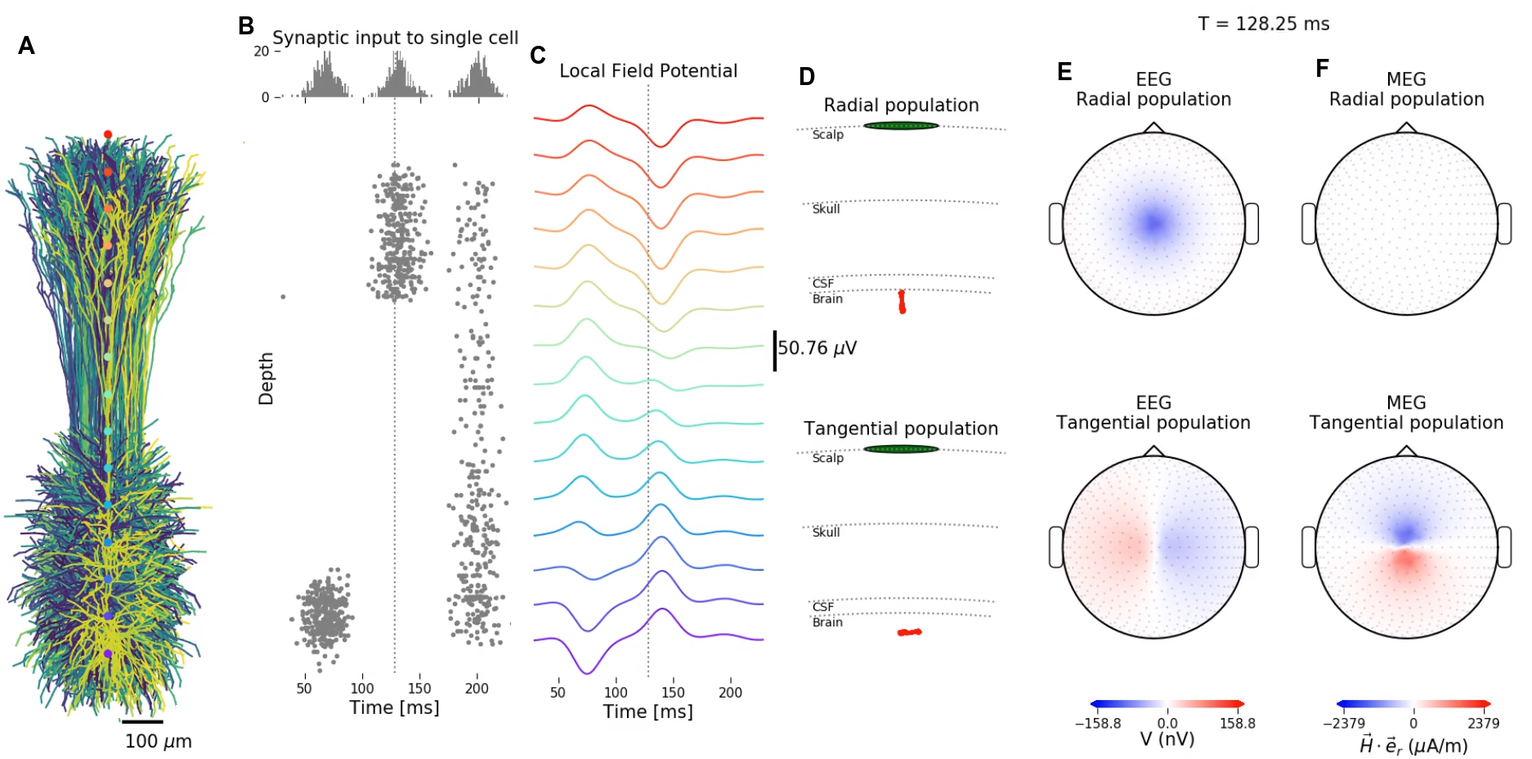
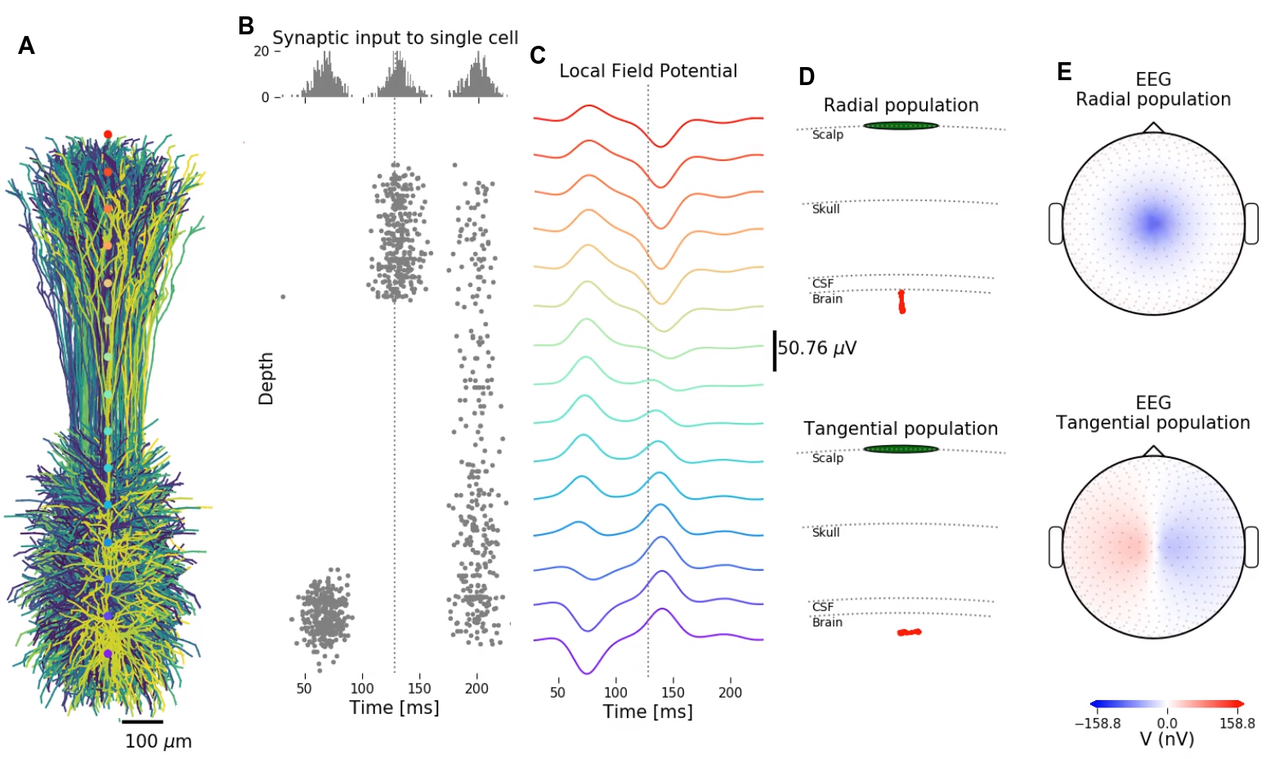
Added fig and writing

diff --git a/ECS_bookchapter.tex b/ECS_bookchapter.tex
@@ -174,7 +174,7 @@
 %% \address[label2]{<address>}
 
 \author{Geir Halnes\fnref{label1,label2}}
-\author{Torbj\o{}rn V. Ness \fnref{label1,label2}}
+\author{Torbj\o{}rn V. Ness \fnref{label1}}
 \author{Solveig N\ae{}ss\fnref{label2}}
 \author{Klas Pettersen \fnref{label3}}
 \author{Gaute T. Einevoll\corref{cor1}\fnref{label1,label2,label4}}
@@ -231,7 +231,7 @@ The link between membrane currents and the extracellular potential is of course 
 
 We start this book chapter by giving an overview of the theory used for forward modellng of extracellular potentials, and introduce the mathematical frameworks and software tools that can be used for such modelling. We start the theory-part at the rather fundamental level of electrodiffusive ion concentration dynamics, and derive an electrodiffusive framework for predicting the dynamics of the extracellular ion concentrations and potential. We next show how this theory can be reduced to the simpler, and more common VC-theory if we assume that the diffusive component is negligible. 
 
-\begin{figure}[h!]
+\begin{figure}[!ht]
 \begin{center}
 \includegraphics[width=0.8\textwidth]{cortex_multipop_arial_font}
 \end{center}
@@ -268,7 +268,7 @@ In order the solve a set (i.e., one for each ion species present) of equations l
 where $\epsilon$ is the permittivity of the system, and $\rho$ is the charge density associated with the ionic concentrations, as given by:
 \begin{equation}
 \rho = F \sum_k z_k c_k.
-\label{eq:poisson}
+\label{eq:F}
 \end{equation}
 An alternative, more computationally efficient approach is to replace the Poisson equation with the simplifying approximation that the bulk solution is electroneutral \citep{Mori2008, Mori2009, Mori2009a, Mori2011, Halnes2015, Halnes2013, Halnes2015arxiv, Pods2017, Niederer2013, OConnell2016, Solbra2018}, which is a good approximation on spatiotemporal scales larger than micrometers and microseconds \citep{Grodzinsky2011, Pods2017, Solbra2018}. 
 
@@ -320,76 +320,92 @@ where $r$ is the distance from the source. With several point-current sources, $
 \label{eq:VCtheory}
 \end{equation}
 
-Eq. \ref{eq:VCtheory} is often referred to as the point-source approximation \citep{Holt1999, Pettersen2008a}, since the membrane currents from a neuronal segment are assumed to enter the extracellular medium in a single point. An alternative scheme is the line-source approximation, where transmembrane currents from each segment is assumed to be evenly
-distributed along the segment axis \citep{Holt1999, Pettersen2008a}.
+Eq.~\ref{eq:VCtheory} is often referred to as the point-source approximation \citep{Holt1999, Pettersen2008a}, since the membrane current from a neuronal segment is assumed to enter the extracellular medium in a single point. An often used further development is obtained by integrating eq.~\ref{eq:VCtheory} along the segment axis, corresponding to the transmembrane current being evenly distributed along the segment axis, giving the line-source approximation \citep{Holt1999, Linden2014}.
 
-The formula in eq. \ref{eq:VCtheory} (or the line-source version of it) represents the VC theory in its simplest form, and was based on a set of assumptions, some of which may be relaxed for problems where it is relevant: 
+The formula in eq. \ref{eq:VCtheory} (or the line-source version of it) represents volume conductor theory in its simplest form, and was based on a set of assumptions, some of which may be relaxed for problems where it is relevant: 
 
 \begin{enumerate}
 
 \item {\bf Quasi-static approximation of Maxwell's equations:} Terms with time derivative of the electrical and magnetic fields are neglected. This approximation appears to be well-justified for the relatively low frequencies relevant for brain signals, below about 10 kHz \citep{Nunez2006}.
 
-\item {\bf Linear extracellular medium:} Linear relationship ($\bf{I} = \sigma {\bf E}$) between the current density ${\bf I}$ and the electrical field, ${\bf E}$. This is essentially Ohm's law for volume conductors, and the relation is constitutive, meaning that it is observed in nature rather than derived from any physical principle \citep{Nunez2006, Pettersen2012}.
+\item {\bf Linear extracellular medium:} Linear relationship ($\bf{I} = \sigma {\bf E}$) between the current density ${\bf I}$\tvnnote{I would have preferred J to mean current density and I total currents. Will this make things messy other places?} and the electrical field, ${\bf E}$. This is essentially Ohm's law for volume conductors, and the relation is constitutive, meaning that it is observed in nature rather than derived from any physical principle \citep{Nunez2006, Pettersen2012}.
 
 \item {\bf Frequency independent conductivity:} Capacitive effects in neural tissue are assumed to be negligible compared to resistive effects in volume conduction. This approximation seems to be justified for the relevant frequencies in extracellular recordings \cite{Logothetis2007, Miceli2017, Ranta2017}, but it is possible to expand the formalism to include a frequency dependent conductivity \citep{Tracey2011, Miceli2017}.
 
-\item {\bf Isotropic conductivity:} $\sigma$ was assumed to be the same in all spatial directions. This is only sometimes an acceptable approximation, and it is possible to expand the formalism to account for an anisotropic $\sigma$ \citep{Ness2015}. \ghnote{Referere til et senere kapittel der vi bruker dette.}
+\item {\bf Isotropic conductivity:} The electrical conductivity, $\sigma$, was assumed to be the same in all spatial directions. This is mostly an acceptable approximation, but it is also possible to expand the formalism to account for an anisotropic conductivities \citep{Ness2015}. \ghnote{Referere til et senere kapittel der vi bruker dette.}
 
-\item {\bf Homogeneous  conductivity:} Extracellular medium was assumed to have the same $\sigma$ everywhere. Although neural tissue is highly non-homogeneous on the micrometer scale \citep{Nicholson1998}, microscale inhomogeneities may average out on a larger spatial scale, and a homogeneous  $\sigma$ seems to be a reasonable approximation in the cortex \cite{Logothesis2007}. However, in several situations is will not be applicable. In general, eq.~\ref{eq:CSDstandard} can always be solved for arbitrarily complex geometries using numerical methods, like the Finite Element Method (FEM) \citep{Logg2012}. For some example neuroscience applications, see \cite{Moffitt2005, Frey2009, Joucla2012, Haufe2015, Ness2015, Buccino2019b, Obien2019}. For some simple non-homogeneous cases analytical solutions can still be obtained, for example through the Method of Images for {\it in vitro} brain slices \citep{Ness2015}, and the four-sphere head model for EEG signals (Sec.~\ref{sec:EEG}) \citep{Naess2017}. \ghnote{Antar at vi her refererer til EEG-kapittelet og evt. flytter noe av dette materialet dit?}
+\item {\bf Homogeneous  conductivity:} The extracellular medium was assumed to have the same conductivity everywhere. Although neural tissue is highly non-homogeneous on the micrometer scale \citep{Nicholson1998}, microscale inhomogeneities may average out on a larger spatial scale, and a homogeneous conductivity seems to be a reasonable approximation within cortex \citep{Logothetis2007}. However, in many situations is will not be applicable, and in general, eq.~\ref{eq:CSDstandard} can always be solved for arbitrarily complex geometries using numerical methods, like the Finite Element Method (FEM) \citep{Logg2012}. For some example neuroscience applications, see \cite{Moffitt2005, Frey2009, Joucla2012, Haufe2015, Ness2015, Buccino2019b, Obien2019}. For some simple non-homogeneous cases analytical solutions can still be obtained, for example through the Method of Images for {\it in vitro} brain slices \citep{Ness2015}, and the four-sphere head model for EEG signals (Sec.~\ref{sec:EEG}) \citep{Naess2017}. \ghnote{Antar at vi her refererer til EEG-kapittelet og evt. flytter noe av dette materialet dit?}
 
 \item {\bf No diffusion:} To account for diffusion, one would need to compute the electrodynamics of the system using one of the electrodiffusive frameworks presented in Section \ref{sec:eldiff}.
 
 \end{enumerate}
 
-Volume conductor theory is the fundament for forward modeling of extracellular potentials both at the level of LFP (and MUA), ECoG or EEG. The theory is incorporated in the customized software LFPy \cite{Linden2014}, which in principle can be used to compute extracellular potentials on arbitrarily large spatial scales, surrounding arbitrarily large neuronal populations. In the following sections we shall review previous modeling works, and insights from simulating electrical potentials at these different scales.
+Volume conductor theory is the fundament for forward modeling of extracellular potentials at different spatial scales, from extracellular spikes, LFPs and MUAs, to ECoGs and EEGs. In the following sections we shall review previous modeling works, and insights from simulating electrical potentials at these different scales.
+We use the software LFPy \citep{Linden2014, Hagen2018, Hagen2019}, which has volume conductor theory incorporated and can in principle be used to compute extracellular potentials on arbitrarily large spatial scales, surrounding arbitrarily large neuronal populations. 
 
 
 \section{Single-cell contributions to extracellular potentials}
-\tvnnote{Make figure with single synaptic input to Hay model. First subthreshold, then suprathreshold, to illustrate that the same modelling scheme works for both LFP and spikes.}
+%\ghnote{Suggest that we start these sections by explaining what $\phi$ tells us at this level. Also, we should refer to the VC-theory and explain which of the assumptions (1-6) that were relaxed in the specific case.}
 
-\ghnote{Maybe not use current-conservation as a main topic, but rather talk about how extracellular potentials reflect morpholohy. Say something like: The extracellular potential arising from the activity of a single neuron is a reflection of not only its dynamical activity, but also its  morphology, and neurons with a large spatial extension generally give rise to larger extracellular potentials as there will be larger distances between current.}
+%\ghnote{Maybe not use current-conservation as a main topic, but rather talk about how extracellular potentials reflect morphology. Say something like: The extracellular potential arising from the activity of a single neuron is a reflection of not only its dynamical activity, but also its  morphology, and neurons with a large spatial extension generally give rise to larger extracellular potentials as there will be larger distances between current.}
 
-\ghnote{Moved current-conservation figure here. I think that we could call it something else. Perhaps the Hay-neuron-example can be integrated with this figure? And perhaps we should name it single-cell contribution to extracellular potential}.
+%\ghnote{Moved current-conservation figure here. I think that we could call it something else. Perhaps the Hay-neuron-example can be integrated with this figure? And perhaps we should name it single-cell contribution to extracellular potential}.
 
-\begin{figure}[h!]
+The extracellular potentials caused by the transmembrane currents of a single neuron is a reflection of both cellular dynamics and morphology (the spatial structure of the cell). 
+Current conservation requires that the transmembrane currents across the entire cellular membrane at any given time sum to zero \citep{Koch1999, Nunez2006}, implying that point neurons, that is, neurons with no spatial structure, will have no net transmembrane currents, and hence cause no extracellular potentials (Fig.~\ref{fig:EP_morph}A). The simplest neuron models that are capable of producing extracellular potentials are therfore two-compartment models, which will have two equal but opposite currents, and cause perfectly dipolar extracellular potentials (Fig.~\ref{fig:EP_morph}B).
+
+Multi-compartment neuron models mimicing the complex spatial structure of real neurons will typically give rise to complicated patterns of current sinks and sources (negative and positive currents respectively), leading to complex, but mostly dipolar-like extracellular potentials (Fig.~\ref{fig:EP_morph}C) \citep{Einevoll2007}.
+Note that this framework for calculating extracellular potentials is valid both for subthreshold and suprathreshold neural activity, that is, when a cell receives synaptic input that does not trigger, or does trigger an action potential, respectively (Fig.~\ref{fig:EP_morph}D versus E).  
+
+\begin{figure}[!ht]
 \begin{center}
-\includegraphics[width=0.6\textwidth]{dipoles}
+\includegraphics[width=1\textwidth]{single_cell_EP}
 \end{center}
-\caption{\textbf{Effect of current conservation on extracellular potentials.} 
-Illustration of synaptic input to three different types of cell models (top row), with the resulting extracellular potentials (bottom row). 
-A: Point neurons have no net currents, and therefore cause no extracellular potentials. B: Two-compartment neuron models have two opposite currents
-of identical magnitude, and cause dipolar extracellular potentials. C: Multi-compartment neuron models \citep{Hay2011} give rise to extracellular potentials with complex (but mostly dipolar-like) shapes.}
-\label{fig:current_conservation}
+\caption{\textbf{Single-cell contributions to the extracellular potential.} 
+A: Point neurons have no net currents (top), and therefore cause no extracellular potentials (bottom). B: Two-compartment neuron models have two opposite currents
+of identical magnitude (top), and cause perfectly dipolar extracellular potentials (bottom). C: Multi-compartment neuron models \citep{Hay2011} give rise to complex source-sink patterns (top) and complex (but mostly dipolar-like) extracellular potentials (bottom). D, E: A single somatic synaptic input to a complex multi-compartment cell model, either subthreshold (D) or suprathreshold (E; double synaptic weight of D), illustrating that the same framework can be used to calculate both the LFP contribution from subthreshold synaptic input, and extracellular action potentials. 
+}
+\label{fig:EP_morph}
 \end{figure}
 
 
 \section{Local field potentials}
-\ghnote{Suggest that we start these sections by explaining what $\phi$ tells us at this level. Also, we should refer to the VC-theory and explain which of the assumptions (1-6) that were relaxed in the specific case.}
-\tvnnote{How much of an intro should we have here? If the Chapter intro has a broader focus and only refer to modelling of brain signals, we should have full LFP intro here.}
-\ghnote{I think we could skim through the different measurement modalities in the intro, and mention LFP, MUA, ECoG and EEG. As of now, there is just a line there, saying that it is very important to model what you measure, and measure what you model.  I suggest that Gaute expands on this, and talks about the needs within the field. However, I suggest that we make it rather brief, and focus this chapter on the technical aspect of how to compute the different measures here.}
 
-The Local Field Potential is the Low-Frequency Part ($\lesssim$ 500~Hz) of the extracellular potentials, and it is among the oldest and most used brain signals in neuroscience \citep{Einevoll2013}. The LFP is expected to be dominated by large numbers of synaptic inputs to population of geometrically aligned neurons \citep{Nunez2006, Linden2011, Einevoll2013b}, and what determines a single neuron's contribution to the LFP is both the geometrical structure of the neuron, and the location of the synaptic inputs.  \ghn{Maybe move this synapse-stuff to the Population LFP-subsection. If we only look at a single neuron, like here, I guess spikes are more important.}
+% \tvnnote{How much of an intro should we have here? If the Chapter intro has a broader focus and only refer to modelling of brain signals, we should have full LFP intro here.}
+% \ghnote{I think we could skim through the different measurement modalities in the intro, and mention LFP, MUA, ECoG and EEG. As of now, there is just a line there, saying that it is very important to model what you measure, and measure what you model.  I suggest that Gaute expands on this, and talks about the needs within the field. However, I suggest that we make it rather brief, and focus this chapter on the technical aspect of how to compute the different measures here.}
+
+The Local Field Potential is the Low-Frequency Part ($\lesssim$ 500~Hz) of the extracellular potentials, and it is among the oldest and most used brain signals in neuroscience \citep{Einevoll2013}. The LFP is expected to be dominated by large numbers of synaptic inputs to populations of geometrically aligned neurons \citep{Nunez2006, Linden2011, Einevoll2013b}, and what determines a single neuron's contribution to the LFP is both the geometrical structure of the neuron, and the location of the synaptic inputs.  
+
+Excitatory synaptic inputs  current sink (negative current). As we have seen, this will necessarily lead to a current source somewhere else on the cell (Sec.~\ref{sec:corrent_conservation}).  
+Excitatory synaptic input to the apical dendrite of a pyramidal cell, will tend to give an apical current sink and a corresponding basal current source (Fig.~\ref{fig:dipole_basics}A), while excitatory synaptic input to the basal dendrite will give the opposite: a basal sink and an apical source (Fig.~\ref{fig:dipole_basics}B). Importantly, this means that excitatory input that simultaneously targets both the apical and the basal dendrite will give opposite source/sink patterns which will lead to substantial cancellation, and result in a much weaker contribution to the LFP (Fig.~\ref{fig:dipole_basics}C) (but see \cite{Ness2018}).
+The same arguments also applies to inhibitory synaptic inputs, with the signs of the currents reversed (Fig.~\ref{fig:dipole_basics}D-F). 
+
+Note that, for example, the LFP signature of apical excitatory synaptic input is inherently similar to that of basal inhibitory input (Fig.~\ref{fig:dipole_basics}, A versus E), and indeed, separating between cases like this poses a real challenge in interpreting LFP signals [cite]. 
+
+Broadly speaking, neurons can be divided into two main classes: the inhibitory interneurons, and the excitatory pyramidal neurons, which make up about 20~\% and 80~\% of the total neuron numbers respectively \citep{Kandel2012}. While a typical pyramidal neuron has a clear axis of orientation, that is, the apical dendrites of close-by pyramidal neurons tend to be oriented in the same direction, this is much less true for interneurons, which often lack any clear orientational specificity. This has important consequences for their ability to contribute to the LFP: 
 
 
-\subsection*{Population LFPs}
-Although important insights can be learned from considering single-cell contributions to the LFP, thousands of cells are expected to contribute to measured LFP signals \citep{Linden2011, Pesaran2018}. Because of linearity (Sec.~\ref{sec:VC_theory}), the contribution from each cell can just be summed to obtain the population LFP.
+%\ghnote{Maybe move this synapse-stuff to the Population LFP-subsection. If we only look at a single neuron, like here, I guess spikes are more important.}
+
+%Although important insights can be learned from considering single-cell contributions to the LFP, thousands of cells are expected to contribute to measured LFP signals \citep{Linden2011, Pesaran2018}. Because of linearity (Sec.~\ref{sec:VC_theory}), the contribution from each cell can just be summed to obtain the population LFP.
 
 In general, the same principles that apply for single cells also apply for populations of cells (Fig.~\ref{fig:LFP_EEG_MEG}A), for example basal excitatory input to a population of pyramidal cells results in a negative LFP deflection in the basal region (Fig.~\ref{fig:LFP_EEG_MEG}B-C, t=50~ms), while apical excitatory input case a positive LFP deflection (Fig.~\ref{fig:LFP_EEG_MEG}B-C, t=140~ms), and uniform synaptic input causes no deflection (Fig.~\ref{fig:LFP_EEG_MEG}B-C, t=200~ms). \ghnote{Perhaps put specific findings in figure text and use the body-text to more general findings?}
 
-\begin{figure}[h!]
+\begin{figure}[!ht]
 \begin{center}
 \includegraphics[width=1\textwidth]{population_EEG_MEG.png}
 %\includegraphics[width=1\textwidth]{PC_versus_IN}
 \end{center}
-\caption{\textbf{Extracellular potentials from different waves of synaptic input}. Different brain signals from separate waves of synaptic input to 10 000 layer 5 pyramidal cells from rat \citep{Hay2011}.
-\tvnnote{Remove MEG?}}
+\caption{\textbf{Extracellular potentials from different waves of synaptic input}. Different brain signals from separate waves of synaptic input to 10 000 layer 5 pyramidal cells from rat \citep{Hay2011}.}
 \label{fig:LFP_EEG_MEG}
 \end{figure}
 
 
-\subsection{Effect of spikes and active conductances}
+Large spatial extension generally give rise to larger extracellular potentials as there will be larger distances between currents.\tvnnote{Should we derive dipole-formula here, or wait for EEG section? Arguments for having it here: Talk about how large cells gets larger current dipole moments, and how dipoles dominate at larger distances.}
+
+\subsection*{Effect of spikes and active conductances}
 \label{sec:active}
-\ghn{Perhaps make this stuff more compact, and not have it as separate subsection?}
+\ghnote{Perhaps make this stuff more compact, and not have it as separate subsection?}
 Spikes are typically not expected to have an important role in shaping cortical LFP signals \citep{Einevoll2013, Haider2016}, but see also \cite{Reimann2013}.
 However, highly synchronized spikes are expected to be very important for hippocampal sharp wave ripples \citep{Schomburg2012, Luo2018}. 
 
@@ -397,11 +413,10 @@ Subthreshold active conductances can also be expected to effect the LFP, and in 
 
 \cite{Suzuki2017} demonstrated that calcium spikes can also make sizable contributions to the LFP and ECoG signals, which opens up for exciting research opportunities, given the assumed important physiological role of such calcium spikes.
 
-
 \section{MUA}
 While LFPs are thought to mainly reflect the synaptic input to large populations, the multi-unit activity (MUA) can be used to probe the spiking activity. MUA can be used in combination with LFP to estimate the population dynamics, as for example in Laminar Population Analysis \citep{Einevoll2007, Blomquist2009}  
 
-\section{ECoG, EEG and MEG}
+\section{ECoG and EEG}
 \label{sec:EEG}
 LFP signals are measured inside different brain structures, in the immediate vicinity of the current sources that are causing the LFP signals. A disadvantage with this is that it is invasive, in the sense that electrodes must be inserted into the brain tissue which can only be done in humans when there is a clear medical need, like for patients with intractable epilepsy [cite]. However, the current sources that are causing the LFP signals are also causing measurable signals at the brain surface, electrocorticography (ECoG), and at the outside of the head, called electroencephalograpy (EEG) for electric signals measured at the head surface, and magnetoencephalography (MEG) for magnetic signals measured outside the head (Fig.~\ref{fig:multimodal}).
 
@@ -423,9 +438,9 @@ Can also used pre-solved complex head models, like the New York head (Fig. \ref{
 
 No important signal filtering by head \citep{Pfurtscheller1975, Ranta2017}.
 
-\tvnnote{Show extracellular potenial through four-sphere head model for single synaptic input to Hay model (same as earlier LFP figure.}
+\tvnnote{Show extracellular potential through four-sphere head model for single synaptic input to Hay model (same as earlier LFP figure?}
 
-\begin{figure}[h!]
+\begin{figure}[!ht]
 \begin{center}
 \includegraphics[width=1\textwidth]{head_models.png}
 \end{center}
@@ -470,6 +485,7 @@ Proxies \cite{Mazzoni2015}
 \section{Software tools}
 LFPy etc.
 \tvnnote{Recycle text from LFPy 2.0 paper about other softwares (sec 4.7.}
+\tvnnote{Maybe we don't need this section? Just say that 'here we've used LFPy'}
 
 Typically split into two separate tasks: Simulate neural activity, mostly relying on the NEURON simulator \citep{Hines1997}, through the Python interface \citep{Hines2009}. Extracellular potentials are then calculated from these currents, through volume conductor theory. 
 
@@ -518,7 +534,7 @@ With a spatially varying $\sigma$, we would have to derive the theory from (eq. 
 \begin{equation}
 CSD = {\bf \nabla}{\bf I} = {\bf \nabla}{\left(\sigma {\bf E}\right)} = - \nabla{\left(\sigma {\bf \nabla} \phi\right)} \\
 = -\nabla \sigma \nabla \phi - \sigma \nabla^2 \phi.
-\label{eq:poisson}
+\label{eq:poisson_}
 \end{equation}
 
  A frequency dependent conductivity can be incorporated into the forward modelling scheme, essentially by solving eq.~\ref{eq:VCtheory} for each frequency component separately, that is, the transmembrane currents are transformed into the frequency domain by a Fourier Transform, and eq.~\ref{eq:VCtheory} is used with a separate conductivity for each frequency, before the signal is transformed back to the time domain \citep{Tracey2011, Miceli2017}.
@@ -534,7 +550,7 @@ Note that, for example, the LFP signature of apical excitatory synaptic input is
 Broadly speaking, neurons can be divided into two main classes: the inhibitory interneurons, and the excitatory pyramidal neurons, which make up about 20~\% and 80~\% of the total neuron numbers respectively \citep{Kandel2012}. While a typical pyramidal neuron has a clear axis of orientation, that is, the apical dendrites of close-by pyramidal neurons tend to be oriented in the same direction, this is much less true for interneurons, which often lack any clear orientational specificity. This has important consequences for their ability to contribute to the LFP: 
 
 
-\begin{figure}[h!]
+\begin{figure}[ht!]
 \begin{center}
 \includegraphics[width=0.8\textwidth]{dipole_basics}
 \end{center}
@@ -554,7 +570,7 @@ Neural simulations with detailed multi-compartment cell models is based on solvi
 Note that the capacitive currents have a vital role in ensuring this current conservation: the membrane potential is caused by a slight charge imbalance between the inside and the outside of the cell, and all this surplus charge is expected to be distributed on the cellular membrane, where all the surplus charge on the inside of the cellular membrane (negative during the resting state) is exactly balanced by an equal amount of charge of the opposite polarity on the outside of the cellular membrane (Fig.~\ref{fig:capacitive_currents}A) [cite]. 
 As current pass through the membrane, or from one part of the cell to another, the amount of surplus charge on the inside of the cellular membrane changes (Fig.~\ref{fig:capacitive_currents}B), which immediately results in a corresponding change in the amount of charge on the outside of the cellular membrane (Fig.~\ref{fig:capacitive_currents}C). Such changes in the amount of surplus charge distributed along the outside of the cellular membrane are what is called capacitive currents, and they ensure that eq.~\ref{eq:current_conservation} is always fulfilled.
 Current conservation has far-reaching consequences for extracellular potentials, that we will illustrate with three examples.
-\begin{figure}[h!]
+\begin{figure}[ht!]
 \begin{center}
 \includegraphics[width=1\textwidth]{capacitive_currents}
 \end{center}
@@ -566,9 +582,9 @@ Current conservation has far-reaching consequences for extracellular potentials,
 \end{figure}
 
 \subsection*{Illustration with point-neuron model}
-Consider for example the often-used point-neuron models \citep{Sterratt2011}. Since they have only one compartment, eq.~\ref{eq:current_conservation} demands that there should be no net transmembrane current, implying no extracellular potentials (see eq.~\ref{eq:VCtheory}). This means that, while point-neurons have an important role to play in investigating neural network dynamics \citep{Einevoll2019}, they are in general incapable of producing extracellular potentials (Fig.~\ref{fig:current_conservation}A; see however \cite{Mazzoni2015, Hagen2016}). 
+Consider for example the often-used point-neuron models \citep{Sterratt2011}. Since they have only one compartment, eq.~\ref{eq:current_conservation} demands that there should be no net transmembrane current, implying no extracellular potentials (see eq.~\ref{eq:VCtheory}). This means that, while point-neurons have an important role to play in investigating neural network dynamics \citep{Einevoll2019}, they are in general incapable of producing extracellular potentials (Fig.~\ref{fig:EP_morph}A; see however \cite{Mazzoni2015, Hagen2016}). 
 
-\begin{figure}[h!]
+\begin{figure}[ht!]
 \begin{center}
 \includegraphics[width=0.6\textwidth]{dipoles}
 \end{center}
@@ -576,7 +592,7 @@ Consider for example the often-used point-neuron models \citep{Sterratt2011}. Si
 Illustration of synaptic input to three different types of cell models (top row), with the resulting extracellular potentials (bottom row). 
 A: Point neurons have no net currents, and therefore cause no extracellular potentials. B: Two-compartment neuron models have two opposite currents
 of identical magnitude, and cause dipolar extracellular potentials. C: Multi-compartment neuron models \citep{Hay2011} give rise to extracellular potentials with complex (but mostly dipolar-like) shapes.}
-\label{fig:current_conservation}
+\label{fig:EP_morph_}
 \end{figure}
 
 
@@ -585,10 +601,10 @@ Consider now a cell model with two cellular compartments. Current conservation, 
 \begin{equation}
  \phi ({\bf r}) = \frac{I_1}{4\pi {\bf |r-r_1|} \sigma} + \frac{-I_1}{4\pi {\bf |r-r_2|} \sigma} = \frac{I_1}{4\pi \sigma}\left ( \frac{1}{{\bf |r-r_1|}} - \frac{1}{{\bf |r-r_2|}}\right ).
 \end{equation}
-In words, the exact same amount of current that goes into one compartment, goes out of the other, resulting in a current dipole (Fig.~\ref{fig:current_conservation}B).
+In words, the exact same amount of current that goes into one compartment, goes out of the other, resulting in a current dipole (Fig.~\ref{fig:EP_morph}B).
 
 \subsection*{Illustration with multi-compartment cell model}
-For multi-compartment cell models, the situation becomes more complex, but current conservation is still key in shaping extracellular potentials, and ensures that there are no current monopoles. This means that in general neural activity can be expected to cause both negative and positive currents, resulting in both positive and negative extracellular potentials (Fig.~\ref{fig:current_conservation}C).
+For multi-compartment cell models, the situation becomes more complex, but current conservation is still key in shaping extracellular potentials, and ensures that there are no current monopoles. This means that in general neural activity can be expected to cause both negative and positive currents, resulting in both positive and negative extracellular potentials (Fig.~\ref{fig:EP_morph}C).
 
 
 
@@ -597,7 +613,7 @@ Correlations have been demonstrated to play a vital role, and can increase the a
 
 \tvnnote{Could have (i) no figure, (ii) remake figure from Linden et al., (iii) make simple illustration figure of underlying reason for boost?} 
 
-\begin{figure}[h!]
+\begin{figure}[ht!]
 \begin{center}
 \includegraphics[width=0.5\textwidth]{correlation_jitter}
 \end{center}
@@ -622,7 +638,7 @@ Note that, in contrast to ionic and axial currents, capacitive currents are prop
 membrane would in effect be ''leakier`` than it would be for a low frequency current (say 1-10~Hz), while the axial resistance would be the same in the two cases. Effectively, this shifts the return currents closer to the input site for higher frequencies than for lower frequencies. 
 
 Passive cell models, that is, cell models without voltage-dependent ion channels (see Sec.~\ref{sec:active}) are linear, meaning that each frequency component can be solved separately, and since all signals can be represented as a sum of sinusoids, this means that as a signal propagates through a cell, it will become increasingly low-pass filtered. This effect is called intrinsic dendritic filtering \citep{Linden2010}, and it can have a substantial influence on extracellular potentials (Fig.~\ref{fig:intrinsic},~\ref{fig:intrinsic2}).
-\begin{figure}[h!]
+\begin{figure}[ht!]
 \begin{center}
 \includegraphics[width=0.5\textwidth]{intrinsic_dendritic_filtering.png}
 \end{center}
@@ -630,7 +646,7 @@ Passive cell models, that is, cell models without voltage-dependent ion channels
 \label{fig:intrinsic}
 \end{figure}
 
-\begin{figure}[h!]
+\begin{figure}[ht!]
 \begin{center}
 \includegraphics[width=0.8\textwidth]{hay_intrinsic.png}
 \end{center}
